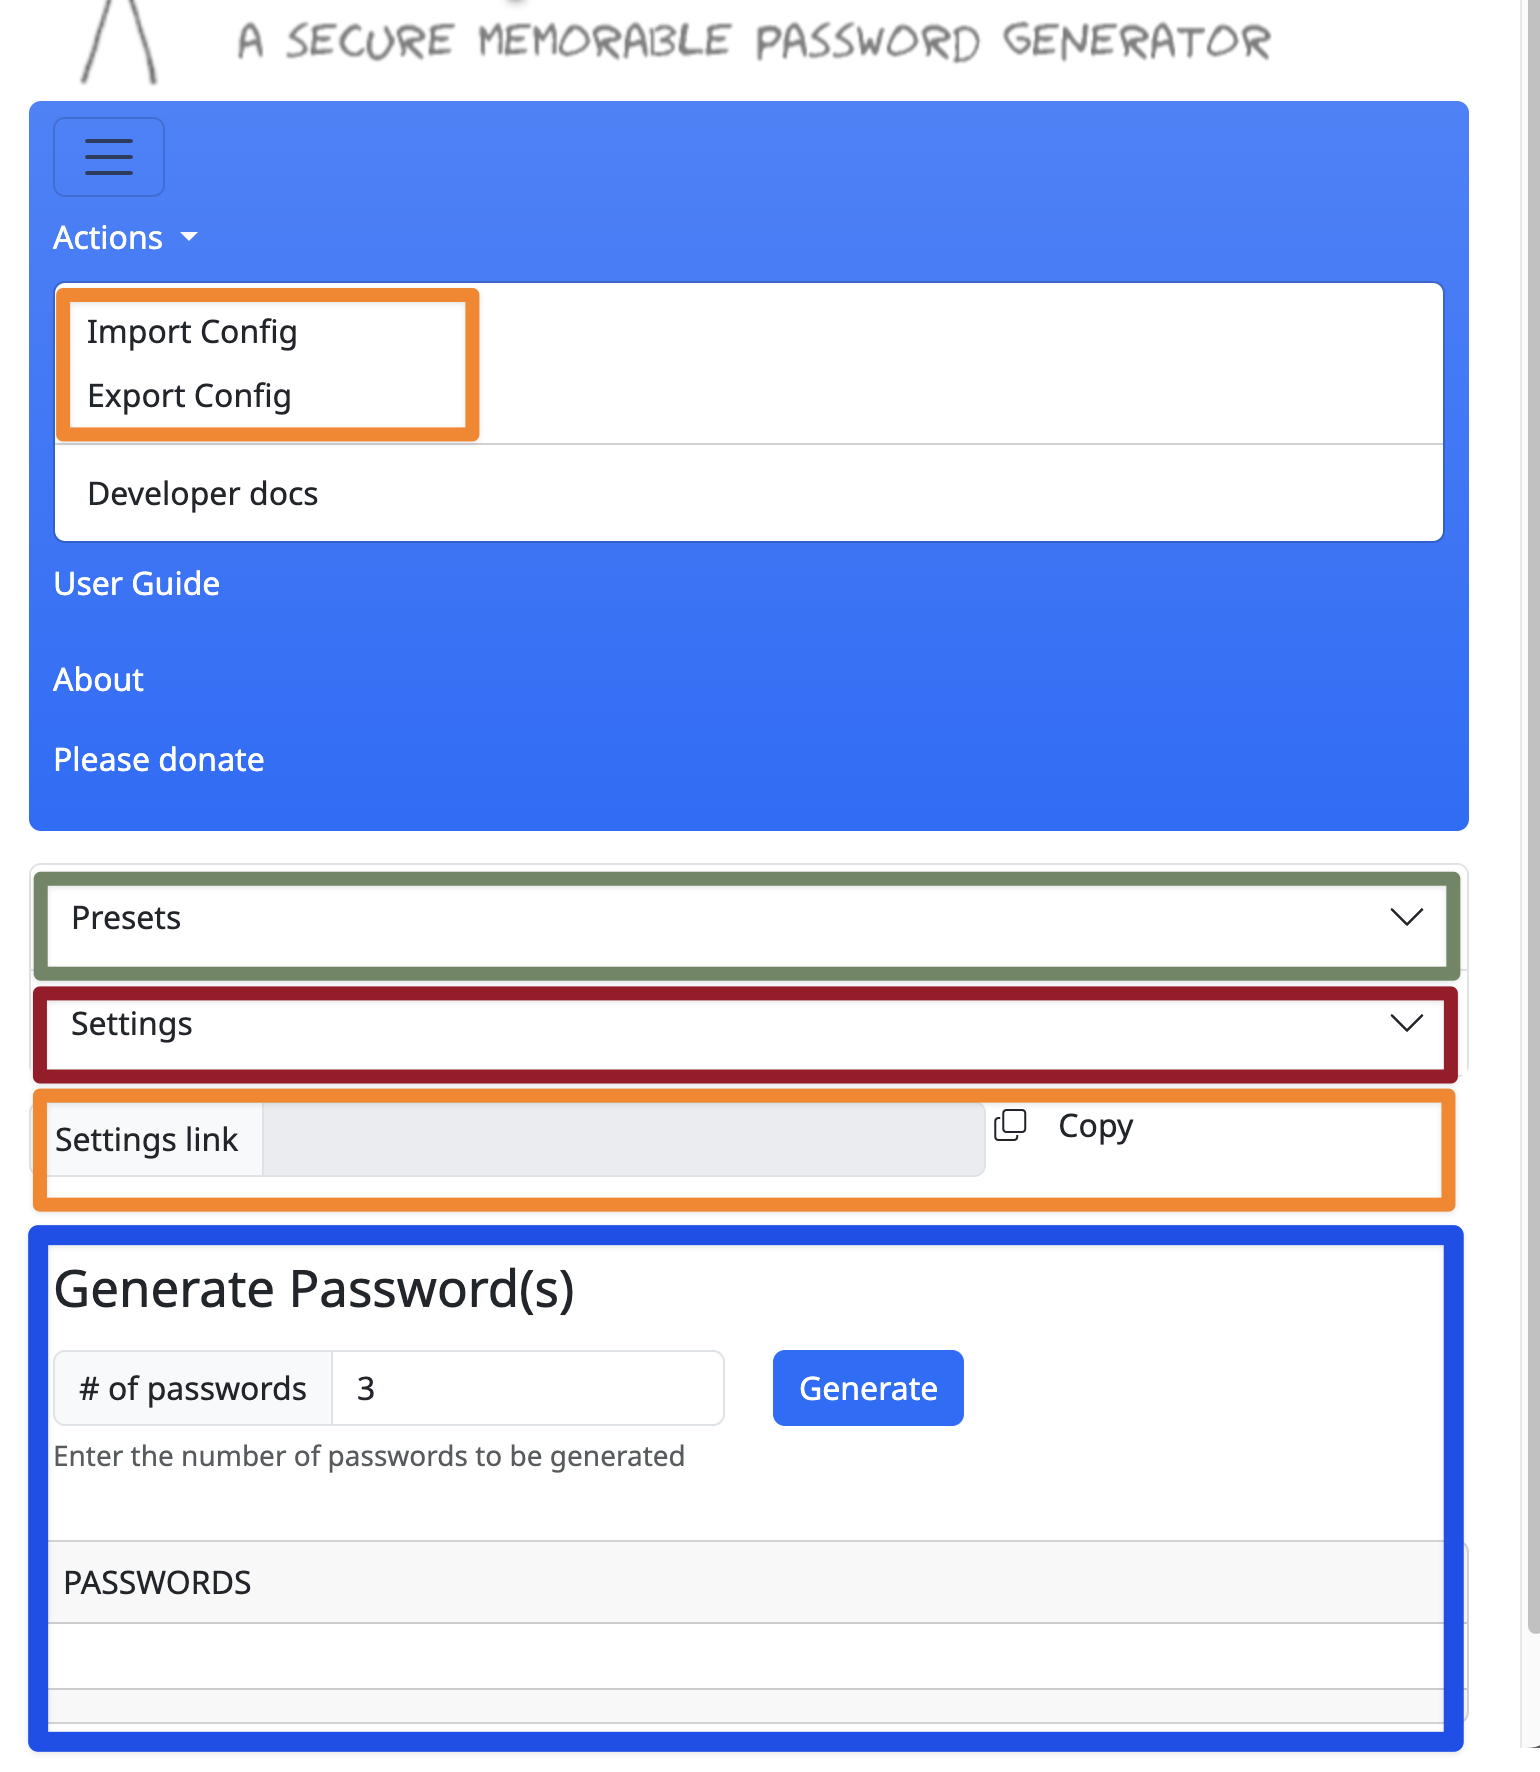
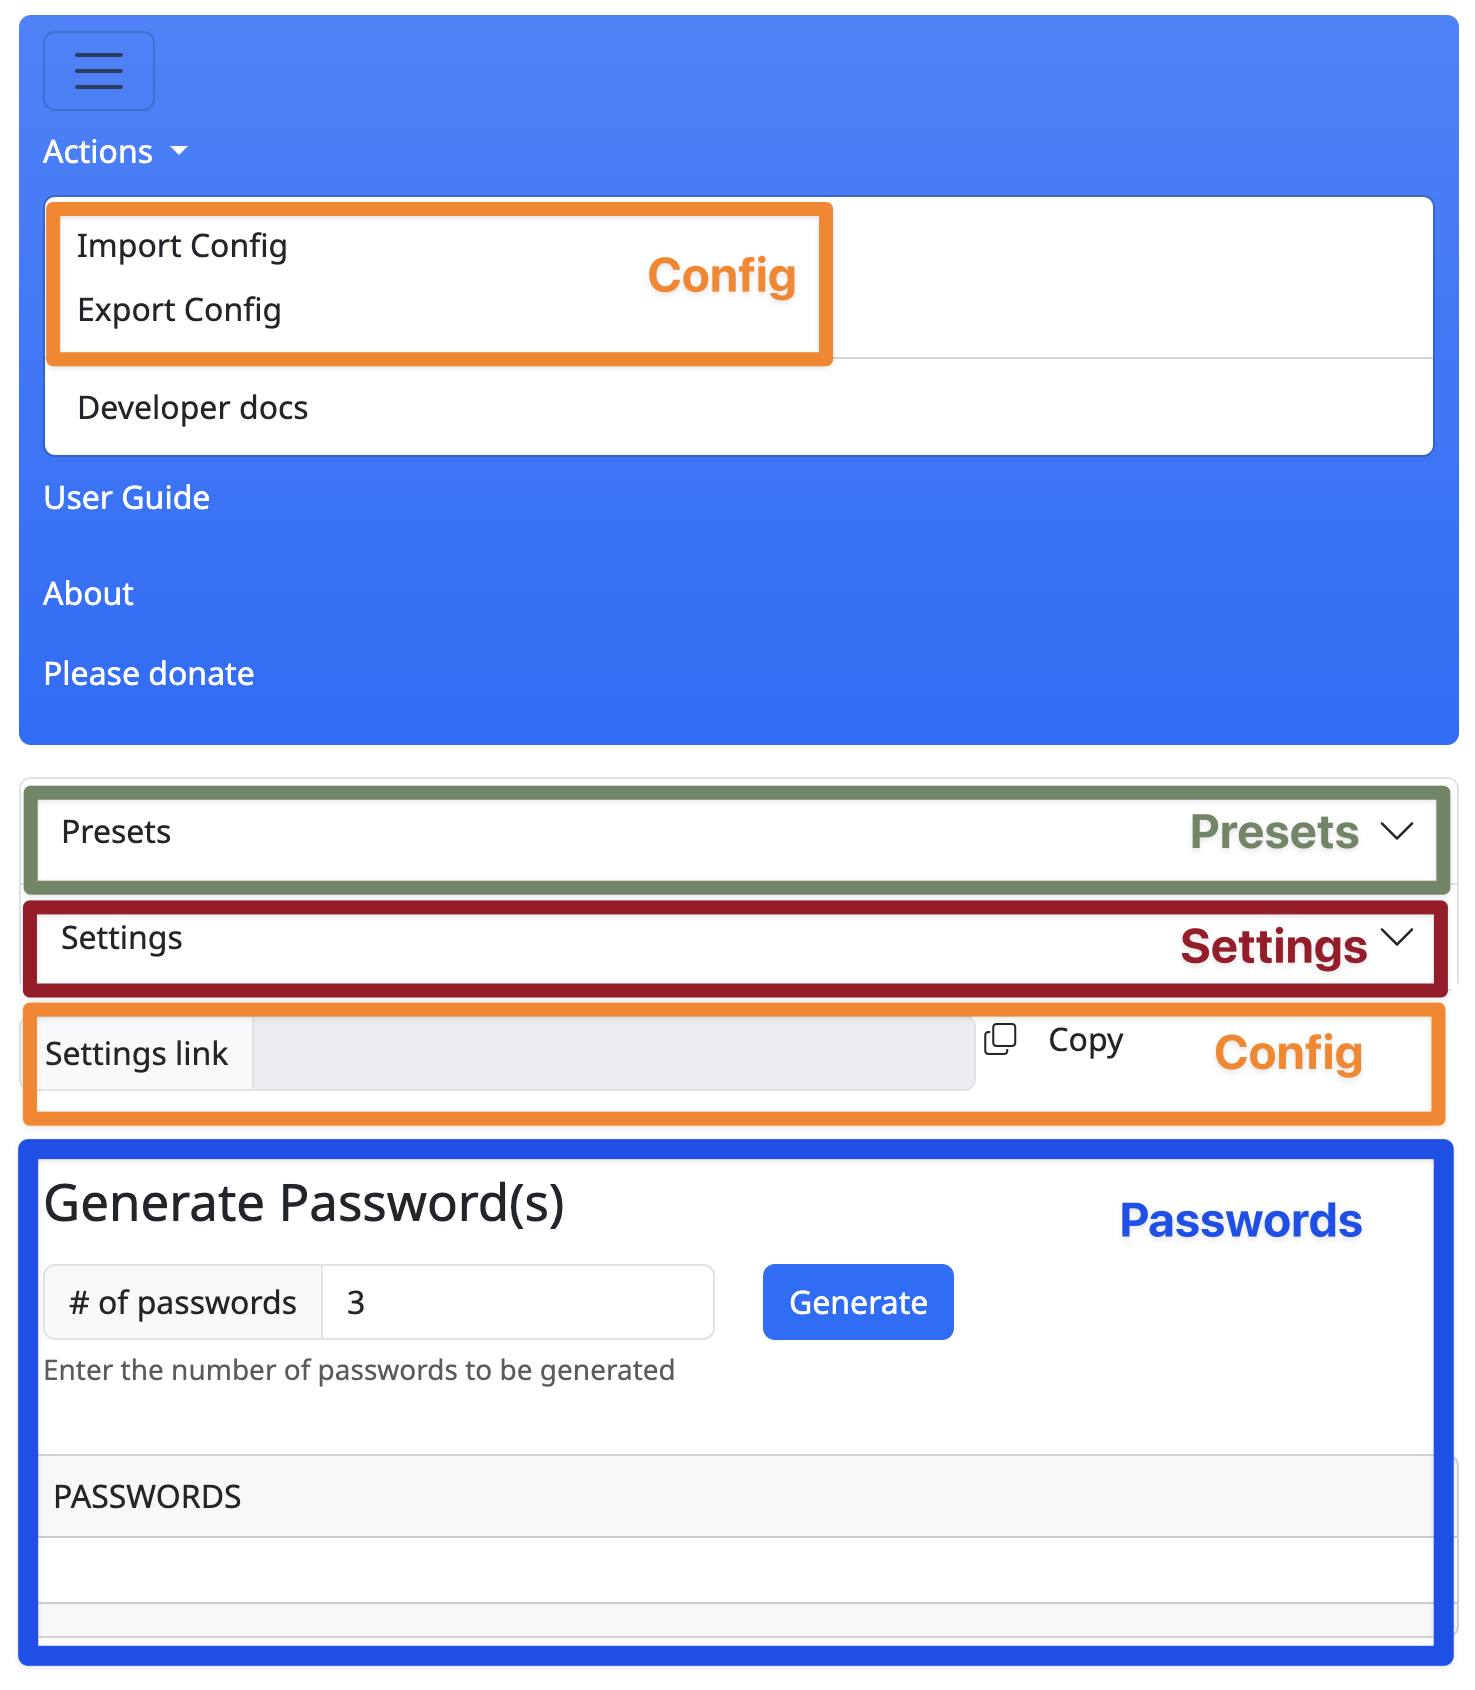
Fix: remove last comment, add labels to the colored boxes

diff --git a/docs/_pbs/pbs171.md b/docs/_pbs/pbs171.md
@@ -131,8 +131,6 @@ These View and Controller pairs are visible in the diagram surrounding the Model
 
 If you look at the screenshot of the UI you will see the Preset part is marked with a green box. The Settings part with a purple box and the Password part with a blue box. These colors match with the colors of the controller/view pairs in the diagram above. 
 
-**This screenshot is truly difficult to see. I was about to tell you there is no green box because I couldn't see it. I can try to help make one that's readable.**
-
 Let's have a more detailed look into the views and controller classes.
 
 
